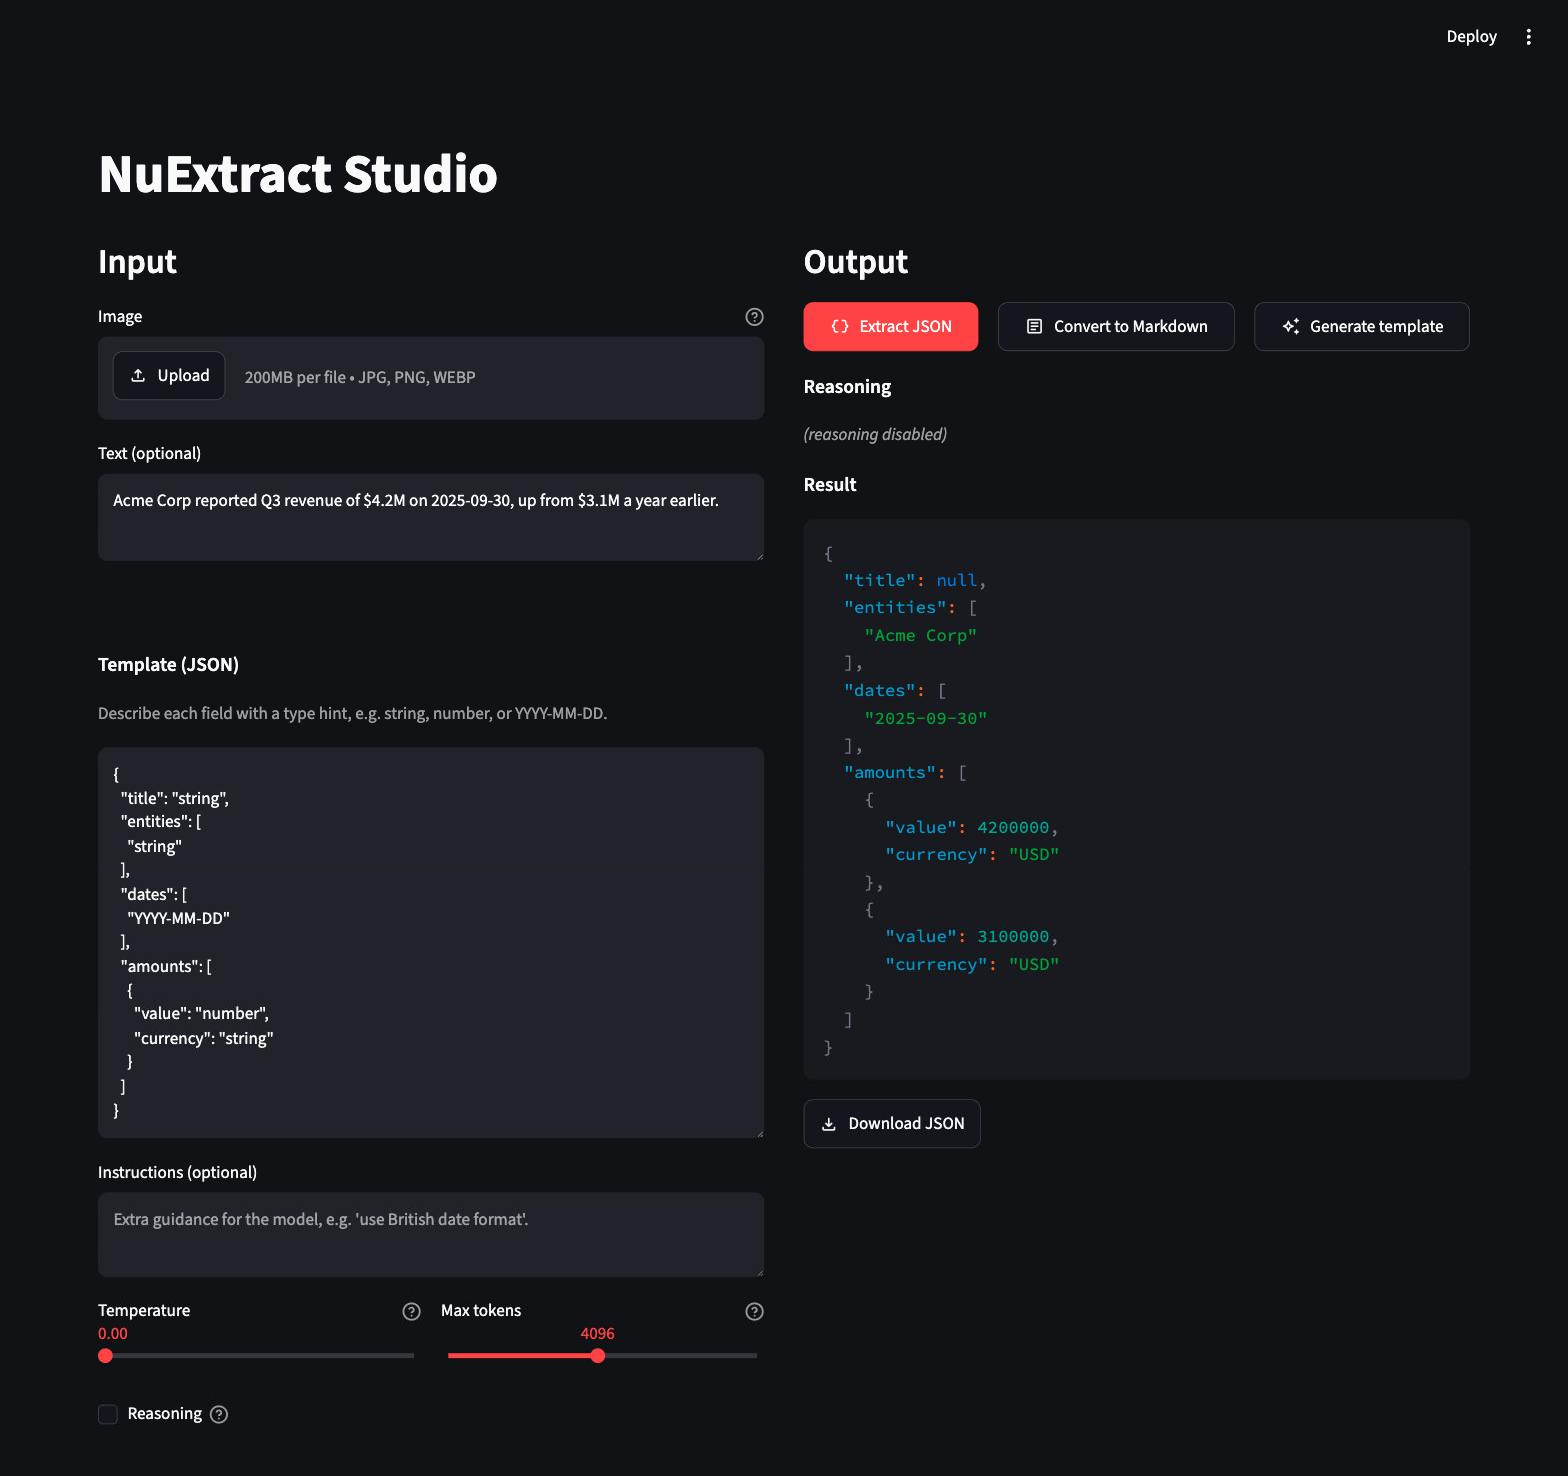
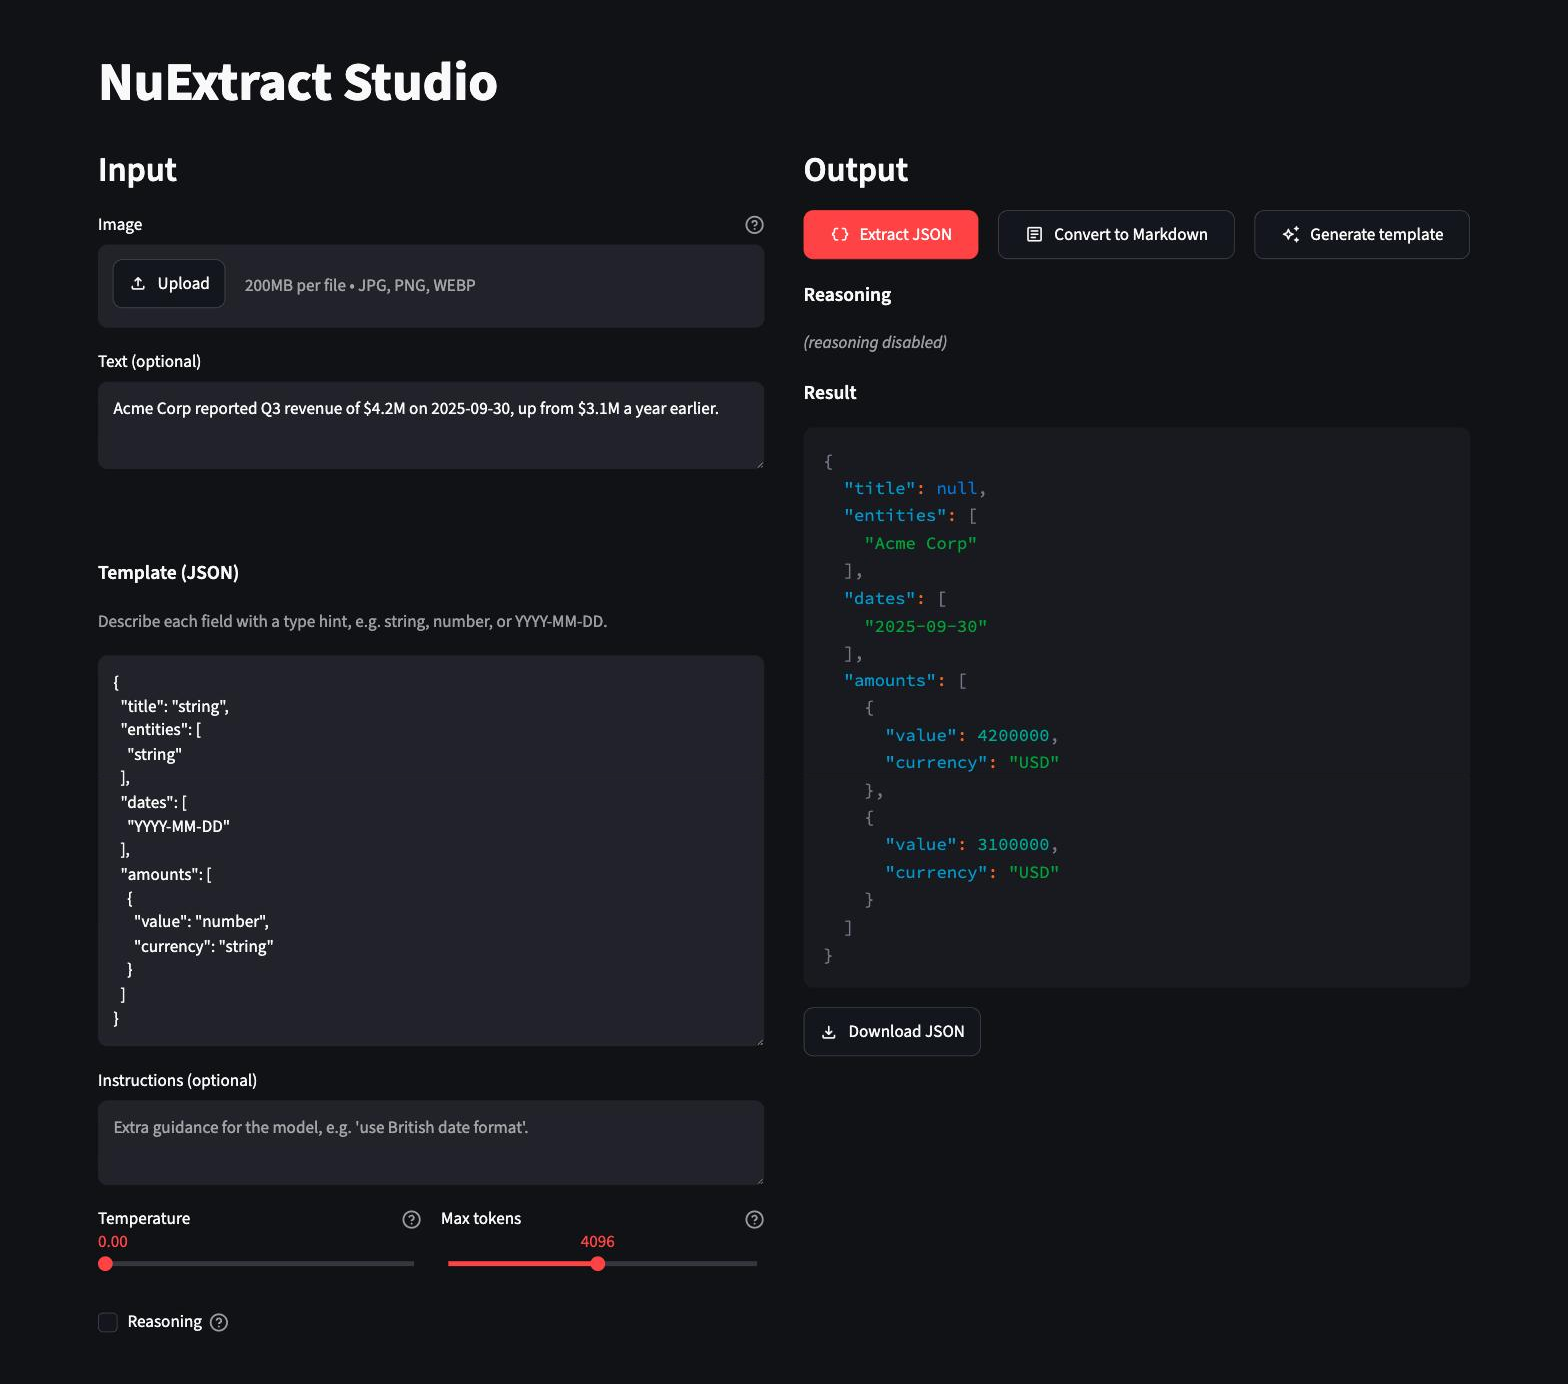
docs: crop Streamlit's dev toolbar out of the README screenshot
The Deploy button and kebab menu are a dev-server affordance, not part of
the product: this app is Apple-Silicon-only and local-only, so advertising
a hosted-deploy path in the hero image misrepresents it. The same blemish
was present in the image this replaced, so it is a carried-forward fix
rather than a regression.

Cropped 92px off the top - the toolbar occupied rows 24-48 and the title
starts at row 152, so the cut leaves 60px of headroom. 1568x1476 ->
1568x1384, applied losslessly to the committed PNG rather than re-shot.

CLAUDE.md records the crop so a re-shoot does not silently reintroduce the
toolbar, and notes client.toolbarMode = "minimal" as the alternative.

diff --git a/CLAUDE.md b/CLAUDE.md
@@ -108,7 +108,7 @@ Two-column layout. Left: inputs. Right: action buttons + outputs (wrapped in an 
 
 **Adding a mode or a control.** A new mode touches five places: a `MODE_*` constant in `nuextract.py`; a `_DOWNLOAD_CONFIGS` entry (label, filename, mime, whether `extract_answer_block` strips wrappers); a keyed `st.button` inside `_output_section`'s horizontal container; an `elif` handler that validates inputs and calls `_run_mode`; and tests in all three files — then update the counts here *and* in README. A new input control must be a **keyed** left-column widget whose return value is discarded and re-read as `st.session_state.get("<key>", <default>)` inside the fragment: a value captured at the widget call site is stale during a fragment-only rerun, because the left column does not re-execute. That is the whole reason for the keyed-widget pattern.
 
-Changing the pane layout or any visible control invalidates `docs/screenshot-dark.png`, the single image README embeds (the light-theme companion was removed). **Bumping the `streamlit` pin invalidates it too** — since the theme config was deleted, the entire look (colours, radii, borders, code font) now comes from the pinned version's built-in themes rather than from anything in this repo, so a dependency upgrade can repaint the app with no diff to point at. Regenerating means a real model load, and there is **no repo-level lever to force dark mode** any more: pick Dark in the app's Settings menu, or flip the OS/browser `prefers-color-scheme`. Flag it for the user rather than shipping a stale image.
+Changing the pane layout or any visible control invalidates `docs/screenshot-dark.png`, the single image README embeds (the light-theme companion was removed). **Bumping the `streamlit` pin invalidates it too** — since the theme config was deleted, the entire look (colours, radii, borders, code font) now comes from the pinned version's built-in themes rather than from anything in this repo, so a dependency upgrade can repaint the app with no diff to point at. Regenerating means a real model load, and there is **no repo-level lever to force dark mode** any more: pick Dark in the app's Settings menu, or flip the OS/browser `prefers-color-scheme`. Flag it for the user rather than shipping a stale image. The committed image has Streamlit's dev toolbar (the **Deploy** button and kebab menu) cropped off the top — it advertises a hosted-deploy path this Apple-Silicon-only app does not offer. Keep that crop on any re-shoot, or suppress the toolbar at the source with `client.toolbarMode = "minimal"` (which means a `.streamlit/config.toml` holding only that key — harmless, since it sets no `[theme]`).
 
 ### `scripts/probe_mlx_vlm.py`
 
